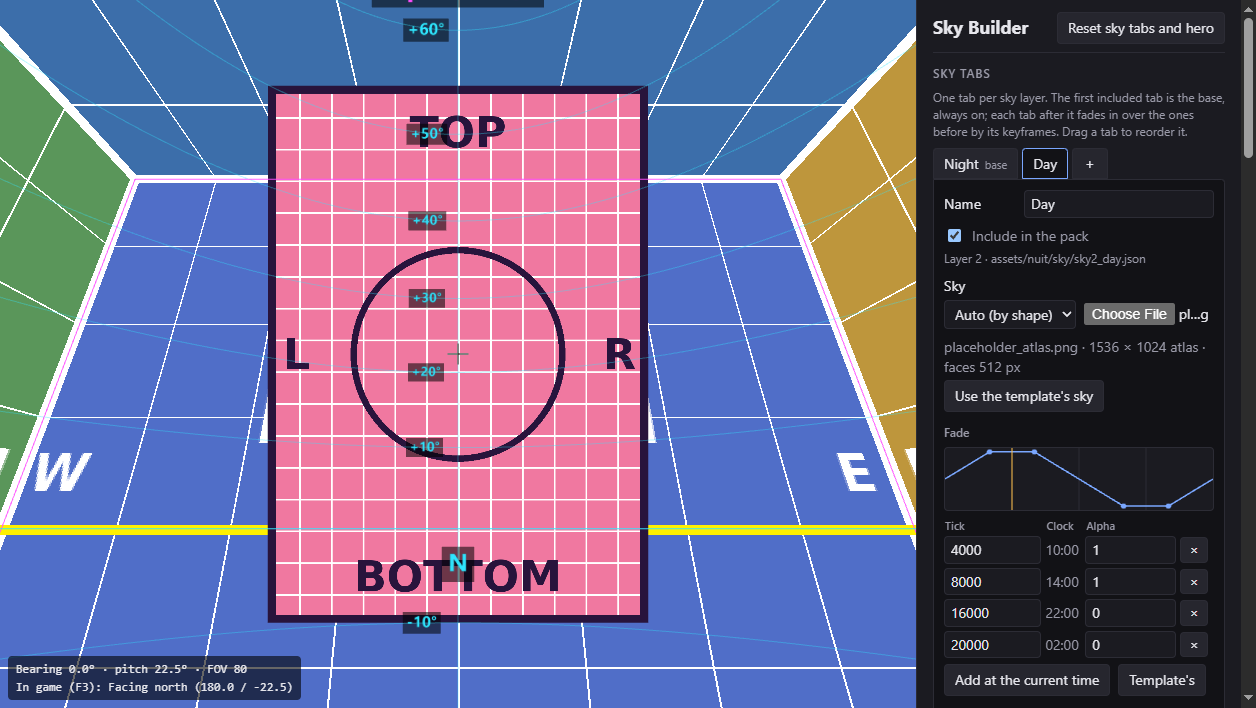
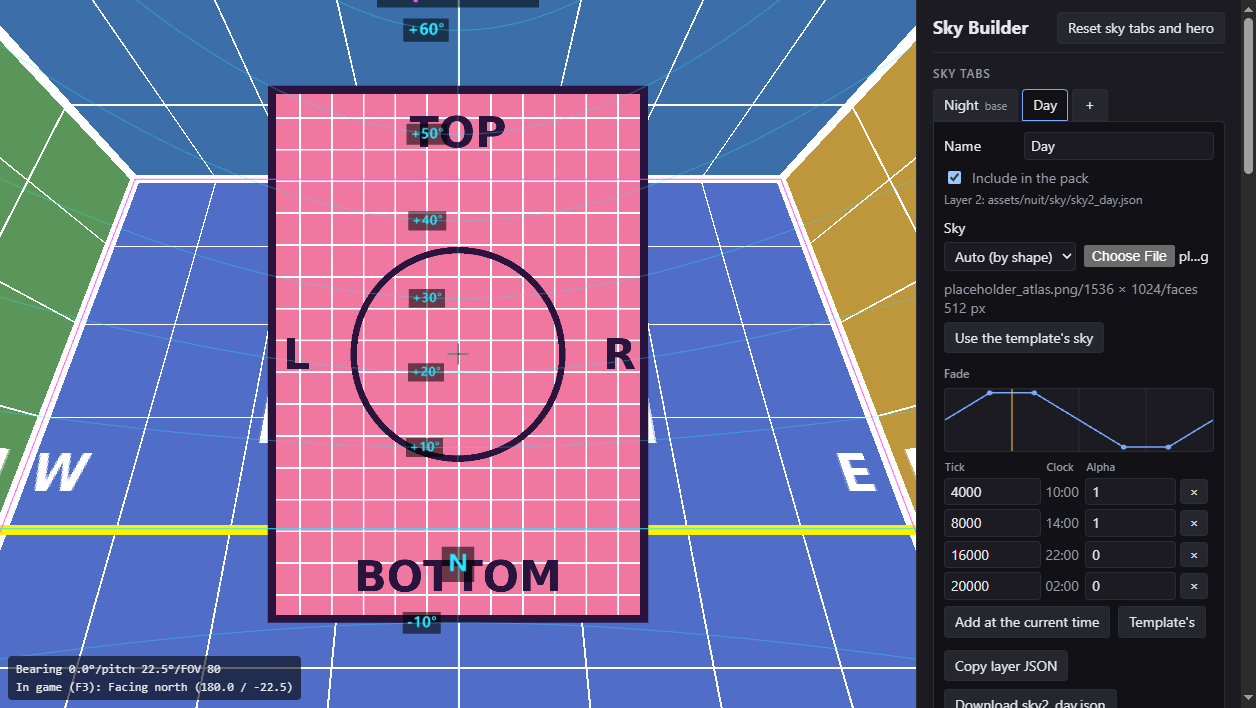
style(ui): trim the panel's text, and use "/" between status parts
Removes the explanatory hints (sky tabs, Files, remembered settings, the
noon-bearing line, the hero's layer read-out, the Resource pack intro)
and the status line for a template or default sky. Shortens the tab's
layer line to "Layer 1 (base): <file>" and the overlay checkbox to
"Toggle overlay". Status lines, the time line, the HUD, readouts and the
overlay's face labels use "/" in place of " · ". Retakes the README
screenshots, and records the in-game check in PLAN 17.13.

diff --git a/src/main.ts b/src/main.ts
@@ -228,9 +228,6 @@ function showJson(): void {
     readouts: currentReadouts(),
     textureProblem: textureProblem(json.animatableTextures[0].texture),
   });
-  const skyCount = layerPlan(tabs).layers.length;
-  ui.showHeroLayer(`Layer ${json.properties.layer}: above the ${skyCount} included sky ${skyCount === 1 ? 'tab' : 'tabs'}. `
-    + 'It follows the sky tabs.');
   showTime();
   ui.showExportStatus(''); // a note about the last export no longer applies to a changed JSON
   scheduleSave();
@@ -442,15 +439,14 @@ function refreshTabs(): void {
   const notes = tabNotes(tabs, template);
   const planned = plan.layers.find((l) => l.tab.id === tab.id);
   const out = outputs.find((o) => o.tabId === tab.id);
-  const source = skySource(tab, template);
 
   const view: OpenTabView = {
     id: tab.id,
     name: tab.name,
     include: tab.include,
     layerText: planned && out
-      ? `Layer ${planned.layer}${planned.base ? ', the base: always on' : ''} · ${out.jsonPath}`
-      : 'Not included, so this layer is left out of the pack.',
+      ? `Layer ${planned.layer}${planned.base ? ' (base)' : ''}: ${out.jsonPath}`
+      : 'Not included in the pack.',
     base: planned?.base ?? false,
     keyFrames: tab.keyFrames,
     problems: keyFrameProblems(tab.keyFrames),
@@ -464,9 +460,6 @@ function refreshTabs(): void {
     count: tabs.length,
   };
   ui.showTabs(tabs.map((t) => ({ id: t.id, name: t.name, include: t.include, base: plan.layers[0]?.tab.id === t.id })), view);
-  if (source === 'default' && !runningLoad(tab.id)) {
-    setSkyStatus(tab.id, `No sky of its own: showing the default sky (the starter's ${isBase(tab.id) ? 'night' : 'day'} guide atlas).`);
-  }
 
   const describe = (t: SkyTab): string => {
     const s = skySource(t, template);
@@ -537,7 +530,6 @@ function skyState(tabId: string): TabSkyState {
 }
 
 const isBase = (tabId: string): boolean => layerPlan(tabs).layers[0]?.tab.id === tabId;
-const runningLoad = (tabId: string): boolean => skies.get(tabId)?.converter != null;
 
 /** A tab's status line; shown at once if it is the open tab. */
 function setSkyStatus(tabId: string, text: string, isError = false): void {
@@ -598,7 +590,7 @@ async function loadAtlasBytes(tabId: string, bytes: Uint8Array, label: string): 
   if (layout.ok) {
     scene.setAtlas(tabId, image, layout.faceSize);
     s.shownLeftBearing = null;
-    setSkyStatus(tabId, `Showing ${label} · ${image.width} × ${image.height} atlas.`);
+    setSkyStatus(tabId, ''); // the template's texture or the default: nothing to report
   } else {
     setSkyStatus(tabId, `${label}: ${layout.message}`, true);
   }
@@ -682,7 +674,7 @@ async function loadUserSky(tabId: string): Promise<void> {
       const faceSize = clamp(Math.round(tab.sky.faceSize ?? layout.faceSize), PANO_FACE_RANGE.min, PANO_FACE_RANGE.max);
       s.panorama = { faceSize, leftBearingDeg };
       if (tabId === openTabId) ui.showPanoramaOptions(s.panorama);
-      convertPanorama(tabId, image, faceSize, leftBearingDeg, `${name} · ${size} panorama, left edge ${leftBearingDeg}°`, name);
+      convertPanorama(tabId, image, faceSize, leftBearingDeg, `${name}/${size} panorama/left edge ${leftBearingDeg}°`, name);
       return;
     }
     const hint = shape === 'atlas' ? ' It is 3:2, so choose Atlas or Auto.' : '';
@@ -694,7 +686,7 @@ async function loadUserSky(tabId: string): Promise<void> {
       s.shownLeftBearing = null;
       s.forPack = { blob: s.file, width: image.width };
       rememberSky(tabId);
-      setSkyStatus(tabId, `${name} · ${size} atlas · faces ${layout.faceSize} px`);
+      setSkyStatus(tabId, `${name}/${size}/faces ${layout.faceSize} px`);
     } else {
       const hint = shape === 'panorama' ? ' It is 2:1, so choose Panorama or Auto.' : '';
       setSkyStatus(tabId, `${name}: ${layout.message}${hint} ${keep}`, true);
@@ -740,7 +732,7 @@ function convertPanorama(tabId: string, image: ImageBitmap, faceSize: number, le
       s.forPack = { blob: reply.png, width: 3 * faceSize };
       rememberSky(tabId);
       const seconds = ((performance.now() - started) / 1000).toFixed(1);
-      setSkyStatus(tabId, `${label} → atlas ${3 * faceSize} × ${2 * faceSize} (faces ${faceSize} px) · ${seconds} s`);
+      setSkyStatus(tabId, `${label} → ${3 * faceSize} × ${2 * faceSize}/faces ${faceSize} px/${seconds} s`);
       refreshTabs();
     } else {
       scene.setSkyTurnDeg(tabId, 0);
@@ -782,13 +774,13 @@ async function loadHero(
     return;
   }
   scene.setHeroImage(image); // the scene owns the image from here on
-  ui.showHeroStatus(`${name} · ${image.width} × ${image.height}`);
+  ui.showHeroStatus(`${name}/${image.width} × ${image.height}`);
   heroForPack = source;
   if (options.remember) void saveImage('hero', { name, blob: source });
   if (!options.keepSize) {
     updateHero({ imageW: image.width, imageH: image.height }, true);
   } else if (options.standIn && (image.width !== state.hero.imageW || image.height !== state.hero.imageH)) {
-    ui.showHeroStatus(`${name} · ${image.width} × ${image.height}, standing in at your saved size `
+    ui.showHeroStatus(`${name}/${image.width} × ${image.height}, standing in at your saved size `
       + `${state.hero.imageW} × ${state.hero.imageH}. Load your hero image again to see it.`);
   }
 }
@@ -923,8 +915,7 @@ async function starterFiles(): Promise<PackFiles> {
 }
 
 function showStarterStatus(): void {
-  ui.showPackStatus(`Template: the starter (${STARTER_NAME}), with placeholder skies and a test hero. `
-    + 'Choose or drop your own template to use it instead.');
+  ui.showPackStatus(`Template: the starter (${STARTER_NAME})`);
 }
 
 /**
@@ -958,7 +949,7 @@ async function loadPackTemplate(source: Blob, name: string, options: { remember:
   packTemplate = { name, files };
   if (options.remember) void saveImage('pack', { name, blob: source });
   const count = info.skyLayers.length;
-  ui.showPackStatus(`Template: ${name} · ${files.size} files · ${count} sky ${count === 1 ? 'layer' : 'layers'} and a hero layer.`, false, true);
+  ui.showPackStatus(`Template: ${name}/${files.size} files/${count} sky ${count === 1 ? 'layer' : 'layers'}`, false, true);
   ui.showPackReport(info.warnings.map((text) => ({ level: 'warn', text })));
   if (options.merge) templateChanged(true);
   return true;

diff --git a/src/ui.ts b/src/ui.ts
@@ -5,7 +5,7 @@ import {
   FACE_WARN_LIMIT, K_RANGE, PANO_FACE_RANGE, PANO_LEFT_BEARING_RANGE, PLAY_SPEEDS, RANGES, TICKS_PER_DAY, TIME_MARKS,
 } from './constants.ts';
 import {
-  fadeAlpha, heightFromK, kFromHeight, mcFacing, mcYawPitch, noonBearingDeg, quadrantBearing, ticksToClock,
+  fadeAlpha, heightFromK, kFromHeight, mcFacing, mcYawPitch, quadrantBearing, ticksToClock,
 } from './math.ts';
 import type { FadeKey, HeroMode, HeroParams, PreviewMode, Readouts, Sky3Json, SkyType, ViewState } from './schema.ts';
 import type { TabNote } from './tabs.ts';
@@ -163,12 +163,12 @@ function clockText(ticks: number): string {
   return `${String(h).padStart(2, '0')}:${String(m).padStart(2, '0')}`;
 }
 
-/** "due north", "N 30.00° W", "S 12.50° E": a bearing as words. */
+/** "north", "N 30.00° W", "S 12.50° E": a bearing as words. */
 function facingText(bearingDeg: number): string {
   const q = quadrantBearing(bearingDeg);
-  const deg = fixed(q.deg, 2); // judge "due" on the shown value: at midnight the bearing is a hair off 180°
-  if (Number(deg) === 0) return `due ${q.from === 'N' ? 'north' : 'south'}`;
-  if (Number(deg) === 90) return `due ${q.to === 'E' ? 'east' : 'west'}`;
+  const deg = fixed(q.deg, 2); // judge on the shown value: at midnight the bearing is a hair off 180°
+  if (Number(deg) === 0) return q.from === 'N' ? 'north' : 'south';
+  if (Number(deg) === 90) return q.to === 'E' ? 'east' : 'west';
   return `${q.from} ${deg}° ${q.to}`;
 }
 
@@ -193,7 +193,6 @@ export class Ui {
   private readonly leftBearingNum = byId<HTMLInputElement>('left-bearing-num');
   private readonly fileInputs = ['sky-file', 'hero-file', 'import-file', 'pack-file'].map((id) => byId<HTMLInputElement>(id));
   private readonly packSummary = byId<HTMLUListElement>('pack-summary');
-  private readonly heroLayer = byId<HTMLParagraphElement>('hero-layer');
   private readonly tabStrip = byId<HTMLDivElement>('tab-strip');
   private readonly tabName = byId<HTMLInputElement>('tab-name');
   private readonly tabNameProblem = byId<HTMLParagraphElement>('tab-name-problem');
@@ -227,7 +226,6 @@ export class Ui {
   private readonly modeRows = [...document.querySelectorAll<HTMLElement>('[data-mode]')];
   private readonly texture = byId<HTMLInputElement>('texture');
   private readonly textureProblem = byId<HTMLParagraphElement>('texture-problem');
-  private readonly turnHint = byId<HTMLParagraphElement>('turn-hint');
   private readonly readouts = byId<HTMLDListElement>('readouts');
   private readonly warnings = byId<HTMLUListElement>('warnings');
   private readonly jsonOut = byId<HTMLPreElement>('json-out');
@@ -424,7 +422,7 @@ export class Ui {
     // Also what Minecraft's F3 screen would show for the same view, to line the preview up with the game.
     const mc = mcYawPitch(view.yawDeg, view.pitchDeg);
     this.hud.textContent =
-      `Bearing ${fixed(view.yawDeg, 1)}° · pitch ${fixed(view.pitchDeg, 1)}° · FOV ${Math.round(view.fovDeg)}\n`
+      `Bearing ${fixed(view.yawDeg, 1)}°/pitch ${fixed(view.pitchDeg, 1)}°/FOV ${Math.round(view.fovDeg)}\n`
       + `In game (F3): Facing ${mcFacing(view.yawDeg)} (${fixed(mc.yaw, 1)} / ${fixed(mc.pitch, 1)})`;
   }
 
@@ -443,7 +441,6 @@ export class Ui {
 
     // Everything below describes the JSON, the values Nuit will read.
     const [x, y] = json.properties.rotation.mapping['0'];
-    this.turnHint.textContent = `At noon the hero faces ${facingText(noonBearingDeg(y))}. Positive ψ turns it toward the west.`;
 
     // The cell-edge limits apply to how far the hero reaches on the face, max |t| and max |s|.
     // In tilted mode those are exactly k and ak; in wall mode the top edge t_t sets the vertical one.
@@ -453,12 +450,12 @@ export class Ui {
     const rows: [string, string][] = [
       ['Image aspect a', `${fixed(r.aspect, 4)} (${hero.imageW} × ${hero.imageH})`],
       ['Half-size k, ak', sized(`${fixed(r.k, 4)} high, ${fixed(r.ak, 4)} wide (face units)`)],
-      ['Reach |t|', sized(`${fixed(FACE_WARN_LIMIT - r.margins.k, 4)} · ${margin(r.margins.k, 3, String(FACE_WARN_LIMIT))}`)],
-      ['Reach |s|', sized(`${fixed(FACE_WARN_LIMIT - r.margins.ak, 4)} · ${margin(r.margins.ak, 3, String(FACE_WARN_LIMIT))}`)],
+      ['Reach |t|', sized(`${fixed(FACE_WARN_LIMIT - r.margins.k, 4)}/${margin(r.margins.k, 3, String(FACE_WARN_LIMIT))}`)],
+      ['Reach |s|', sized(`${fixed(FACE_WARN_LIMIT - r.margins.ak, 4)}/${margin(r.margins.ak, 3, String(FACE_WARN_LIMIT))}`)],
       ['Angular size', sized(`${fixed(r.heightDeg, 2)}° high × ${fixed(r.widthDeg, 2)}° wide`)],
-      ['Top edge', `${fixed(r.topDeg, 2)}° · ${margin(r.margins.zenithDeg, 2, '90', '°')}`],
+      ['Top edge', `${fixed(r.topDeg, 2)}°/${margin(r.margins.zenithDeg, 2, '90', '°')}`],
       ['Bottom edge', `${fixed(r.bottomDeg, 2)}°`],
-      ['Mapping', `X ${fixed(x, 2)} · Y ${fixed(y, 2)}`],
+      ['Mapping', `X ${fixed(x, 2)}/Y ${fixed(y, 2)}`],
     ];
     this.readouts.replaceChildren(...rows.flatMap(([term, value]) => {
       const dt = document.createElement('dt');
@@ -483,9 +480,9 @@ export class Ui {
    * faces at this time.
    */
   showTime(ticks: number, thetaDeg: number, heroBearingDeg: number, layers: readonly { name: string; alpha: number }[]): void {
-    const alphas = layers.map((l) => ` · ${l.name} ${fixed(l.alpha, 2)}`).join('');
-    this.timeReadout.textContent = `${clockText(ticks)} (tick ${Math.round(ticks)}) · θ ${fixed(thetaDeg, 1)}°${alphas}`
-      + ` · the hero faces ${facingText(heroBearingDeg)}`;
+    const alphas = layers.map((l) => `/${l.name} ${fixed(l.alpha, 2)}`).join('');
+    this.timeReadout.textContent = `${clockText(ticks)} (tick ${Math.round(ticks)})/θ ${fixed(thetaDeg, 1)}°${alphas}`
+      + `/hero facing ${facingText(heroBearingDeg)}`;
   }
 
   // --- Sky tabs (PLAN §17.7) ------------------------------------------------------------------
@@ -673,11 +670,6 @@ export class Ui {
   showPreviewMode(mode: PreviewMode, note: string): void {
     this.previewMode.value = mode;
     this.previewNote.textContent = note;
-  }
-
-  /** The hero's layer, now set by the included tabs (decision 17.3.3). */
-  showHeroLayer(text: string): void {
-    this.heroLayer.textContent = text;
   }
 
   /** What Assemble pack will put in, and anything to look at first. */

diff --git a/index.html b/index.html
@@ -22,10 +22,6 @@
 
         <section class="sky-tabs">
           <h2>Sky tabs</h2>
-          <p class="hint">
-            One tab per sky layer. The first included tab is the base, always on; each tab after it fades in over
-            the ones before by its keyframes. Drag a tab to reorder it.
-          </p>
           <div class="tab-strip" role="tablist" aria-label="Sky tabs" id="tab-strip"></div>
           <div class="tab-panel" role="tabpanel" id="tab-panel">
             <div class="field pick">
@@ -105,7 +101,6 @@
 
         <section>
           <h2>Files</h2>
-          <p class="hint">Choose files, or drop them on a row or anywhere on the page. A sky image goes to the open tab.</p>
           <label class="field" data-drop="hero">
             <span>Hero image</span>
             <input type="file" id="hero-file" accept="image/png,image/*" />
@@ -118,7 +113,6 @@
             <input type="number" id="image-h" min="1" step="1" aria-label="Hero height in pixels" />
           </div>
           <p class="status" id="drop-status" role="status"></p>
-          <p class="hint">Your files and settings are remembered in this browser only. Reset forgets them.</p>
         </section>
 
         <section>
@@ -158,7 +152,6 @@
             <input type="range" id="turn" step="0.1" />
             <input type="number" id="turn-num" step="0.01" aria-label="Mapping Y in degrees" />
           </div>
-          <p class="hint" id="turn-hint"></p>
         </section>
 
         <section>
@@ -205,7 +198,7 @@
           <p class="hint" id="preview-note"></p>
           <label class="check">
             <input type="checkbox" id="overlay" />
-            <span>Overlay: cube edges and face table (magenta), horizon and compass (cyan)</span>
+            <span>Toggle overlay</span>
           </label>
         </section>
 
@@ -216,7 +209,6 @@
             <input type="text" id="texture" spellcheck="false" autocomplete="off" />
           </label>
           <p class="status error" id="texture-problem" role="status"></p>
-          <p class="hint" id="hero-layer"></p>
         </section>
 
         <section>
@@ -243,10 +235,6 @@
 
         <section>
           <h2>Resource pack</h2>
-          <p class="hint">
-            Builds a pack from a template: each included sky tab's layer and sky, the hero, its .mcmeta and this JSON
-            go in. Layers of tabs that aren't included are left out; the rest of the template is copied as it is.
-          </p>
           <div class="field" data-drop="pack">
             <label for="pack-file">Template (.zip)</label>
             <input type="file" id="pack-file" accept=".zip,application/zip" />

diff --git a/src/scene.ts b/src/scene.ts
@@ -360,7 +360,7 @@ function buildSkyOverlay(group: Group): void {
   group.add(edges);
 
   for (const face of FACES) {
-    const label = textSprite(`${face.name} · cell ${face.col},${face.row}`, SKY_OVERLAY_COLOR, 0.07);
+    const label = textSprite(`${face.name}/cell ${face.col},${face.row}`, SKY_OVERLAY_COLOR, 0.07);
     // Halfway down the face (t = −0.5), clear of the painted name and horizon line.
     const at = new Vector3(...face.centre).addScaledVector(new Vector3(...face.up), -0.5);
     label.position.copy(at.multiplyScalar(0.9));

diff --git a/docs/PLAN.md b/docs/PLAN.md
@@ -1491,8 +1491,19 @@ The tab's status line and the pack report both say "using the default sky" (ambe
 **Tests:** 214 in all, adding `fadeAlpha` (with the independent periodic check), `tabs.test.ts`, `assembleTabs`, the
 blended draw order in `view.test.ts`, and v2 sessions with the v1 migration.
 
-**Still to do:** the developer's check in game. Assemble with the starter's tabs, then compare the preview with the
-game at `/time set 0`, `6000`, `12000` and `18000`.
+**In game (2026-10-25):** the developer's check passed. An assembled pack matched the preview at `/time set 0`, `6000`,
+`12000` and `18000`.
+
+**UI text trimmed (2026-10-25, at the developer's request):**
+- **Removed:** the explanatory hints (sky tabs, Files, remembered settings, the noon-bearing line under Turn ψ, the
+  hero's layer read-out and the Resource pack intro), and the status line for a template or default sky.
+- **Shortened:**
+  - the tab's layer line, to `Layer 1 (base): <file>`;
+  - the overlay checkbox, to "Toggle overlay";
+  - the starter's template line.
+- **Separators:** the `·` separator in UI text is replaced by `/` throughout: statuses, the time line, the HUD,
+  readouts and the overlay's face labels. An example is `noon.png/2304 × 1536/faces 768 px`, and the time line ends in
+  `/hero facing north`.
 
 ---
 
